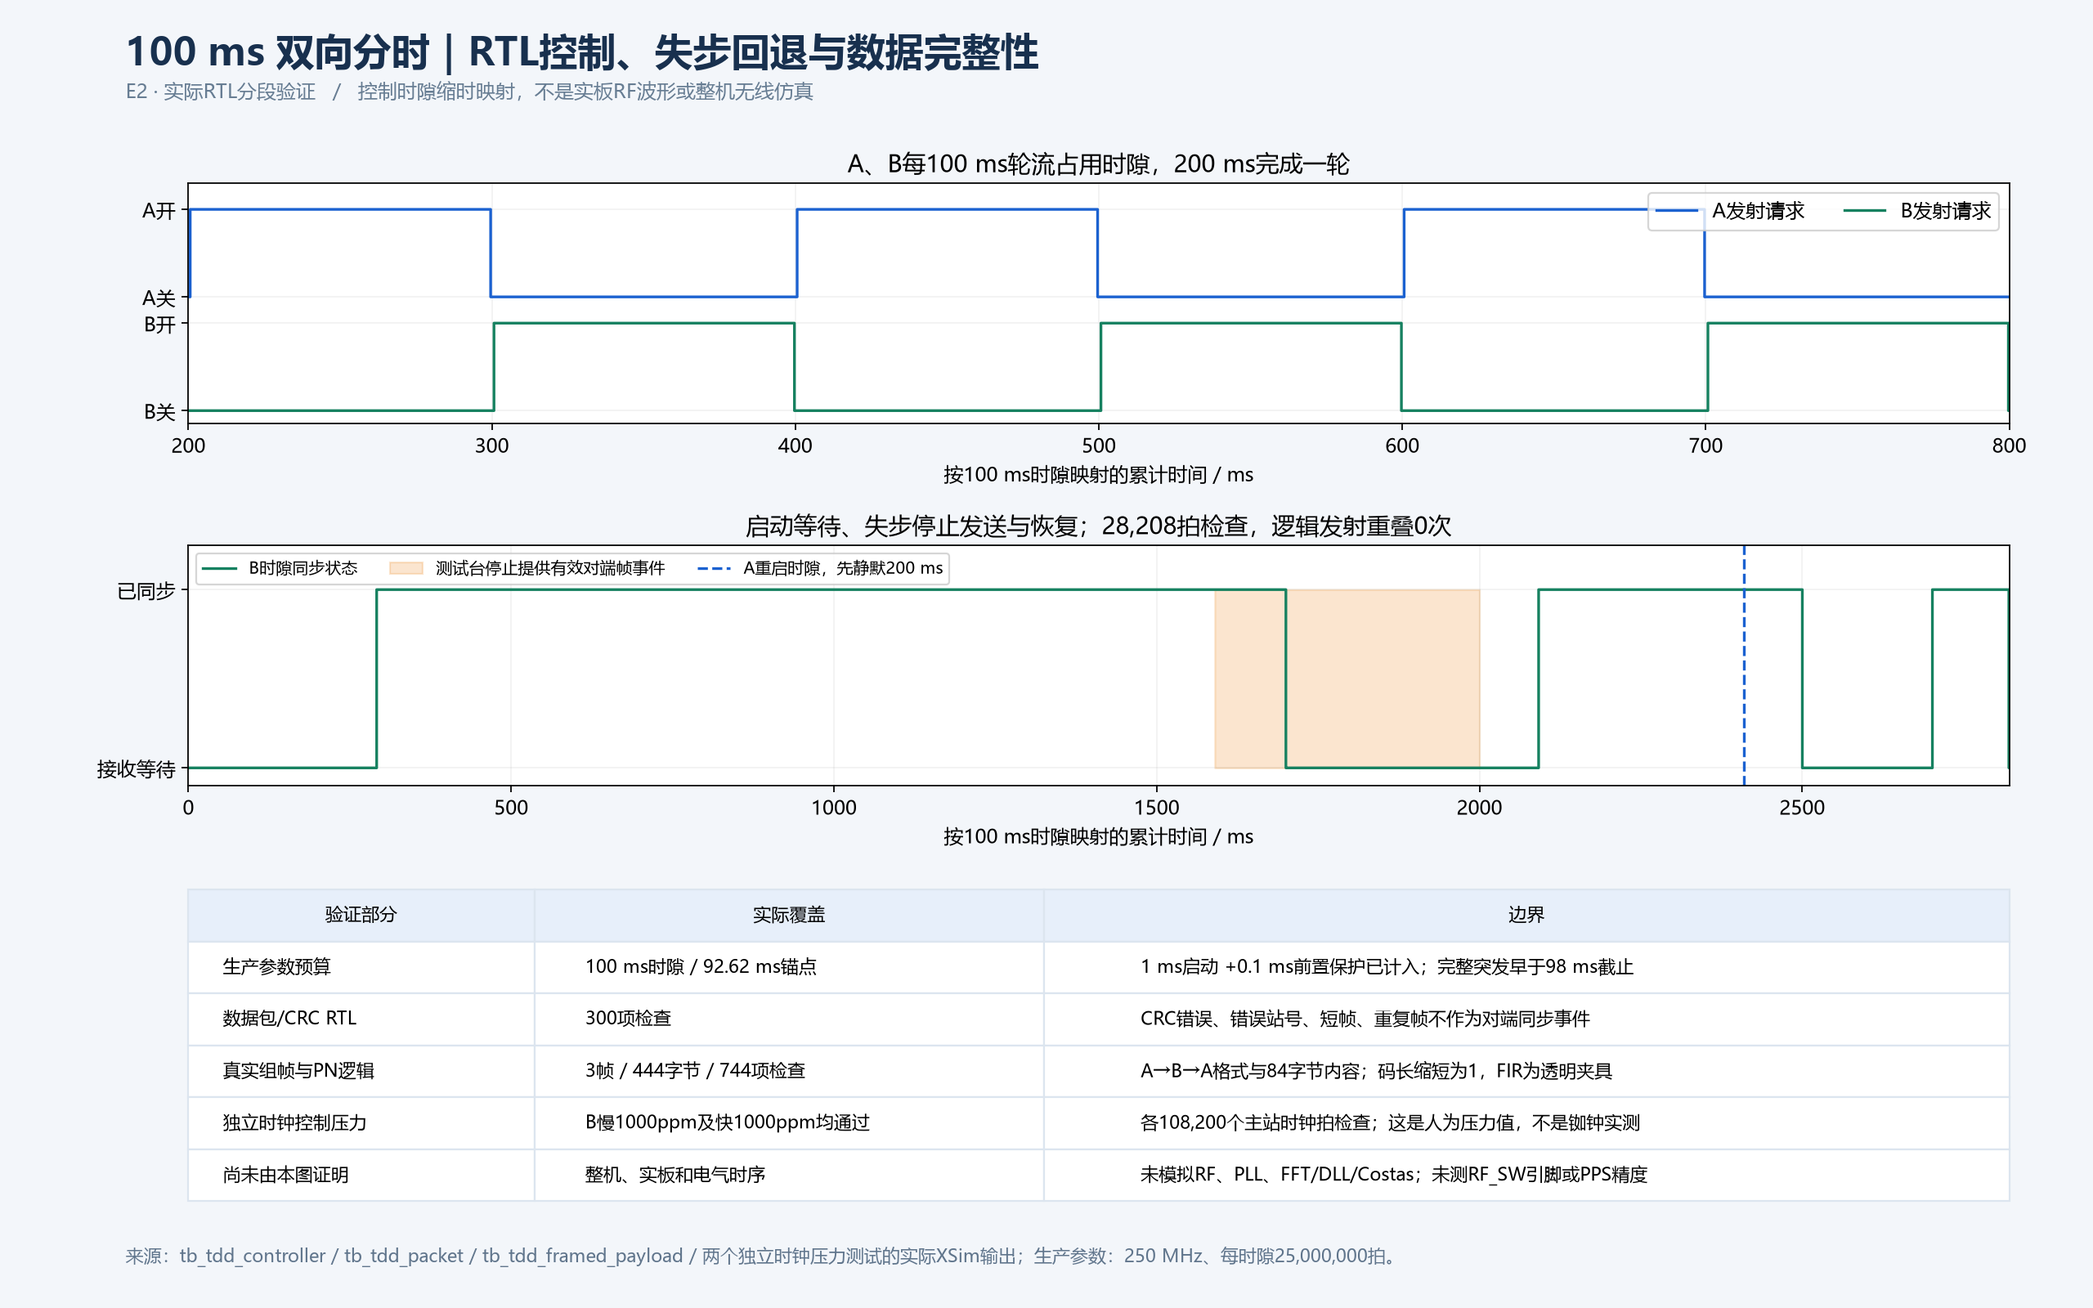
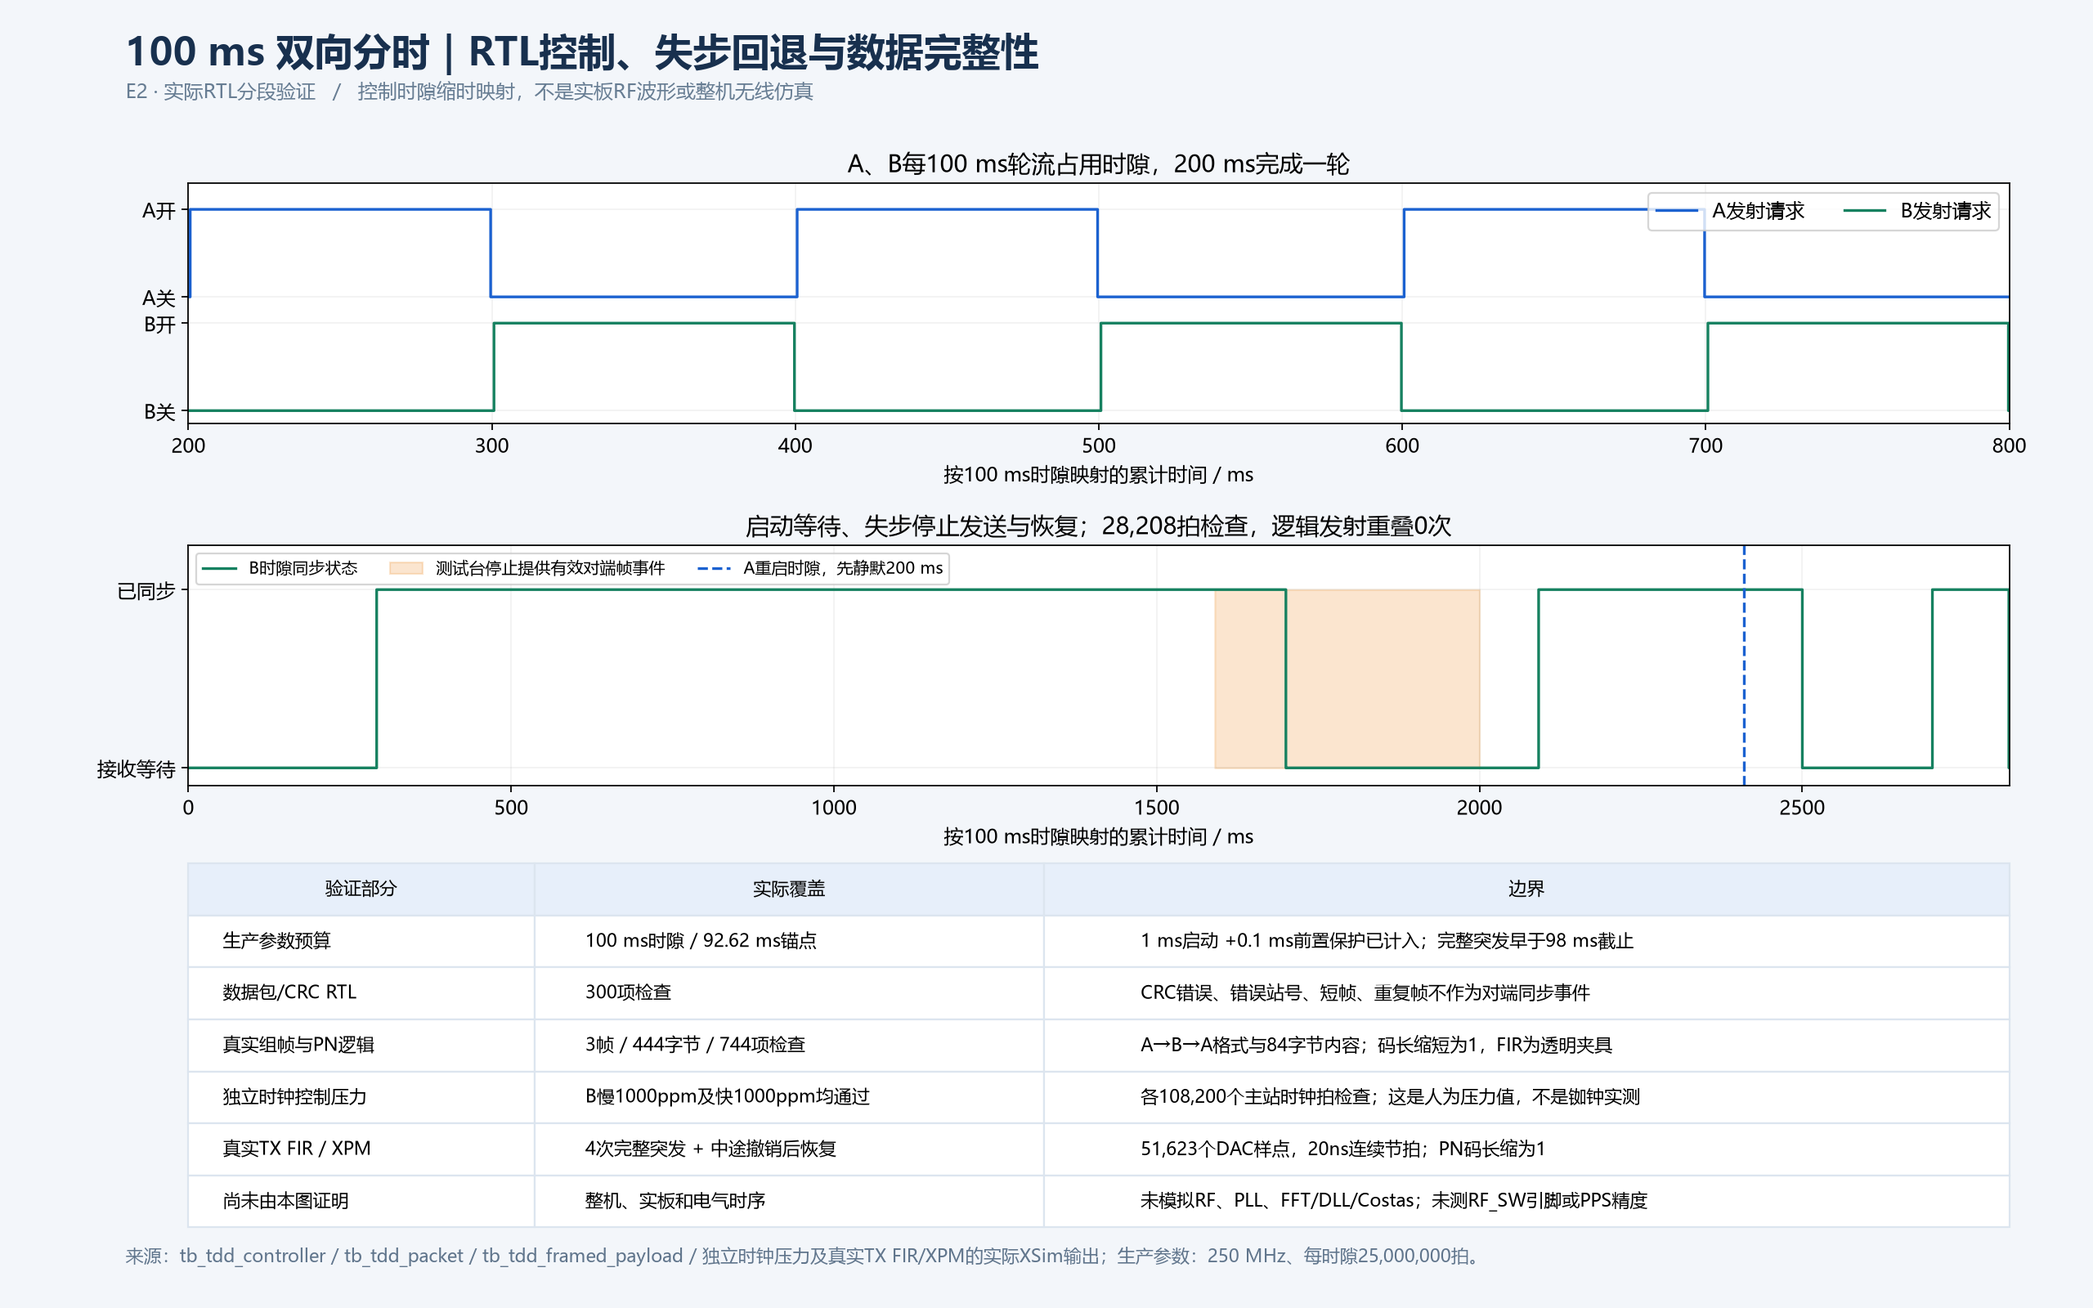
Update DSSS simulation gallery 2026-10-18

Changed region(s): [[0.2812, 0.6562, 0.8125, 0.9688], [0.0938, 0.6562, 0.1875, 0.9375]]

diff --git a/catalog.html b/catalog.html
@@ -810,10 +810,10 @@ img{width:100%;height:240px;object-fit:contain;background:#f8fafc}h3{font-size:1
 <li><a href="modules.html#ad_costas">05 载波同步：归一化与Costas环</a>：登记的新图对应模块；场景及信号说明见图注</li>
 </ul><details class="panel-note"><summary>这张图从哪里取数 / 如何阅读</summary><p>已按登记信息关联模块；具体场景及信号说明：真实FMQL45/AD9361双板同轴，用户确认两台独立铷钟10MHz，LO1.055GHz、50MSPS、模拟20MHz、用户FIR旁路、PN1000/12.5Mchip/s/12.5kbit/s，TX内部衰减50dB固定。RX数值保护前先保留旧计数，再更新接收板，重新LVDS/PRBS校准。rx_norm截位前I/Q共同缩放，Fix16_14输出范围-16384..16383，连续模式使能，默认突发模式不改，增加2个DSP拍8ns算法流水线。MIN_SHIFT=2相对原&gt;&gt;1名义预留6dB，C1/C2不变但等效鉴相增益会改变；不能将本次0/±1/±10Hz分段及当前同轴实测推广到所有频差/信噪比，需扩展跟踪覆盖。四组真实RTL/IP离线回归与正裕量布线通过。手动RX20→24→26→28→20各20s，随后20dB300s；不重捕获不清零，阶段累计实际DSP时间406.491000s，完整验收新增4690正确帧/3752000比较比特，坏帧/错误位/重捕获/ADC削顶/接口帧错增量均0，各阶段吞吐≥8帧/s。实际ILA每阶段完整载荷从Costas符号重建与输出一致，保护值范围核对。旧20→24dB约5s观察3坏帧64错误位，旧新时长/布局/校准不同，不作严格单变量整机BER对照；同输入原IP回放才隔离数值机制。首轮验收因观测工具ILA等待0.2s不足而中断（非载荷错误），保留hardware_acceptance原记录；仅重连主机桥并将采集等待改1s，FPGA未复位、错误计数未清零，完整验收为hardware_acceptance_02。无CRC/空口序号，不证明丢帧率或历史自然坏帧唯一根因；无无线/TDD/PPS/80ns或ps精度验收。工具bringup_numeric_guard_candidate.py/accept_numeric_guard_candidate.py/plot_numeric_guard_hardware.py；完整RTL/IP/位流/CSV/源哈希留本地。</p>
 </details></article>
-<article data-era="current" data-modules="script_continuous_tx script_continuous_rx"><span class="badge">E2 RTL分段：控制28208拍、数据包300项、真实组帧3帧/744项及正负1000ppm控制压力通过；实板TDD待验收</span><h3>61_100ms双向分时_RTL控制_CRC与失步回退.png</h3><a href="08_MATLAB_Simulink_RTL%E5%AF%B9%E7%85%A7/61_100ms%E5%8F%8C%E5%90%91%E5%88%86%E6%97%B6_RTL%E6%8E%A7%E5%88%B6_CRC%E4%B8%8E%E5%A4%B1%E6%AD%A5%E5%9B%9E%E9%80%80.png" target="_blank"><img loading="lazy" src="08_MATLAB_Simulink_RTL%E5%AF%B9%E7%85%A7/61_100ms%E5%8F%8C%E5%90%91%E5%88%86%E6%97%B6_RTL%E6%8E%A7%E5%88%B6_CRC%E4%B8%8E%E5%A4%B1%E6%AD%A5%E5%9B%9E%E9%80%80.png" alt="61_100ms双向分时_RTL控制_CRC与失步回退.png"></a><p>同一双向顶层候选，A只提供时隙基准，B经CRC有效对端帧建立通信历元并每帧重同步；每方向100ms、200ms一轮。图中RF曲线是实际RTL控制输出、1000拍缩映射为100ms，并非真实RF或物理RF_SW引脚测量。测试台以有效peer_packet事件激励控制器，检查启动200ms静默、互斥、漏收回退、恢复、主站重启及数据链故障关发射；28208拍逻辑发射重叠0。CRC与站号/序号/短帧验证300项，真实dsss_tx_250组帧/PN逻辑3帧444字节及用户内容744项通过，CHIPS_PER_BIT缩为1，FIR透明夹具；未覆盖真实FIR、RF、PLL、FFT/DLL/Costas。两独立测试钟B分别快/慢1000ppm、各108200主站时钟拍通过，仅为控制压力，不是铷钟频差实测。另检查实际生产默认250MHz/25M拍时隙；接收锚点92620us包括1ms发送请求偏移+0.1ms源端RF前置保护+91520us至载荷末尾。初版漏算1.1ms已在任何下载前撤回，记录保留anchor_v1_review并重新综合。100字节空口载荷中14字节管理+84用户字节+CRC16两字节，原148字节物理帧及滤波系数保持。候选整机尚在综合/布局布线与实板验收阶段，不宣称已经双向通信、无线、PS联网或PPS测时通过。源码/IP/位流及原始记录仅本地。</p><p><strong>对应模块 / 图源：</strong></p><ul class="module-links">
+<article data-era="current" data-modules="script_continuous_tx script_continuous_rx"><span class="badge">E2 RTL分段：控制28208拍、数据包300项、真实组帧3帧/744项及正负1000ppm控制压力通过；真实TX FIR/XPM突发4帧及撤销恢复通过；实板TDD待验收</span><h3>61_100ms双向分时_RTL控制_CRC与失步回退.png</h3><a href="08_MATLAB_Simulink_RTL%E5%AF%B9%E7%85%A7/61_100ms%E5%8F%8C%E5%90%91%E5%88%86%E6%97%B6_RTL%E6%8E%A7%E5%88%B6_CRC%E4%B8%8E%E5%A4%B1%E6%AD%A5%E5%9B%9E%E9%80%80.png" target="_blank"><img loading="lazy" src="08_MATLAB_Simulink_RTL%E5%AF%B9%E7%85%A7/61_100ms%E5%8F%8C%E5%90%91%E5%88%86%E6%97%B6_RTL%E6%8E%A7%E5%88%B6_CRC%E4%B8%8E%E5%A4%B1%E6%AD%A5%E5%9B%9E%E9%80%80.png" alt="61_100ms双向分时_RTL控制_CRC与失步回退.png"></a><p>同一双向顶层候选，A只提供时隙基准，B经CRC有效对端帧建立通信历元并每帧重同步；每方向100ms、200ms一轮。图中RF曲线是实际RTL控制输出、1000拍缩映射为100ms，并非真实RF或物理RF_SW引脚测量。测试台以有效peer_packet事件激励控制器，检查启动200ms静默、互斥、漏收回退、恢复、主站重启及数据链故障关发射；28208拍逻辑发射重叠0。CRC与站号/序号/短帧验证300项，真实dsss_tx_250组帧/PN逻辑3帧444字节及用户内容744项通过，CHIPS_PER_BIT缩为1，FIR透明夹具；未覆盖真实FIR、RF、PLL、FFT/DLL/Costas。两独立测试钟B分别快/慢1000ppm、各108200主站时钟拍通过，仅为控制压力，不是铷钟频差实测。另检查实际生产默认250MHz/25M拍时隙；接收锚点92620us包括1ms发送请求偏移+0.1ms源端RF前置保护+91520us至载荷末尾。初版漏算1.1ms已在任何下载前撤回，记录保留anchor_v1_review并重新综合。100字节空口载荷中14字节管理+84用户字节+CRC16两字节，原148字节物理帧及滤波系数保持。候选整机尚在综合/布局布线与实板验收阶段，不宣称已经双向通信、无线、PS联网或PPS测时通过。源码/IP/位流及原始记录仅本地。 补充实际生产tx_intp20_fir与XPM异步FIFO段：CPB缩为1，保持250MHz/100MHz/50MSPS与真实FIR，4次完整突发及1次中途撤销后恢复通过；检查51,623个DAC样点、20ns连续输出、FIFO值顺序、Q零、无削顶。该段覆盖真实TX FIR，但不包含无线或真实RX捕获/环路；原透明FIR组帧段的边界不变。工具run_tdd_tx_actual_ip.py；实际XSim日志保留。</p><p><strong>对应模块 / 图源：</strong></p><ul class="module-links">
 <li><a href="modules.html#script_continuous_tx">实板连续发射机：FPGA帧源到AD9361射频</a>：登记的新图对应模块；场景及信号说明见图注</li>
 <li><a href="modules.html#script_continuous_rx">实板连续接收机：双板同轴载荷验证</a>：登记的新图对应模块；场景及信号说明见图注</li>
-</ul><details class="panel-note"><summary>这张图从哪里取数 / 如何阅读</summary><p>已按登记信息关联模块；具体场景及信号说明：同一双向顶层候选，A只提供时隙基准，B经CRC有效对端帧建立通信历元并每帧重同步；每方向100ms、200ms一轮。图中RF曲线是实际RTL控制输出、1000拍缩映射为100ms，并非真实RF或物理RF_SW引脚测量。测试台以有效peer_packet事件激励控制器，检查启动200ms静默、互斥、漏收回退、恢复、主站重启及数据链故障关发射；28208拍逻辑发射重叠0。CRC与站号/序号/短帧验证300项，真实dsss_tx_250组帧/PN逻辑3帧444字节及用户内容744项通过，CHIPS_PER_BIT缩为1，FIR透明夹具；未覆盖真实FIR、RF、PLL、FFT/DLL/Costas。两独立测试钟B分别快/慢1000ppm、各108200主站时钟拍通过，仅为控制压力，不是铷钟频差实测。另检查实际生产默认250MHz/25M拍时隙；接收锚点92620us包括1ms发送请求偏移+0.1ms源端RF前置保护+91520us至载荷末尾。初版漏算1.1ms已在任何下载前撤回，记录保留anchor_v1_review并重新综合。100字节空口载荷中14字节管理+84用户字节+CRC16两字节，原148字节物理帧及滤波系数保持。候选整机尚在综合/布局布线与实板验收阶段，不宣称已经双向通信、无线、PS联网或PPS测时通过。源码/IP/位流及原始记录仅本地。</p>
+</ul><details class="panel-note"><summary>这张图从哪里取数 / 如何阅读</summary><p>已按登记信息关联模块；具体场景及信号说明：同一双向顶层候选，A只提供时隙基准，B经CRC有效对端帧建立通信历元并每帧重同步；每方向100ms、200ms一轮。图中RF曲线是实际RTL控制输出、1000拍缩映射为100ms，并非真实RF或物理RF_SW引脚测量。测试台以有效peer_packet事件激励控制器，检查启动200ms静默、互斥、漏收回退、恢复、主站重启及数据链故障关发射；28208拍逻辑发射重叠0。CRC与站号/序号/短帧验证300项，真实dsss_tx_250组帧/PN逻辑3帧444字节及用户内容744项通过，CHIPS_PER_BIT缩为1，FIR透明夹具；未覆盖真实FIR、RF、PLL、FFT/DLL/Costas。两独立测试钟B分别快/慢1000ppm、各108200主站时钟拍通过，仅为控制压力，不是铷钟频差实测。另检查实际生产默认250MHz/25M拍时隙；接收锚点92620us包括1ms发送请求偏移+0.1ms源端RF前置保护+91520us至载荷末尾。初版漏算1.1ms已在任何下载前撤回，记录保留anchor_v1_review并重新综合。100字节空口载荷中14字节管理+84用户字节+CRC16两字节，原148字节物理帧及滤波系数保持。候选整机尚在综合/布局布线与实板验收阶段，不宣称已经双向通信、无线、PS联网或PPS测时通过。源码/IP/位流及原始记录仅本地。 补充实际生产tx_intp20_fir与XPM异步FIFO段：CPB缩为1，保持250MHz/100MHz/50MSPS与真实FIR，4次完整突发及1次中途撤销后恢复通过；检查51,623个DAC样点、20ns连续输出、FIFO值顺序、Q零、无削顶。该段覆盖真实TX FIR，但不包含无线或真实RX捕获/环路；原透明FIR组帧段的边界不变。工具run_tdd_tx_actual_ip.py；实际XSim日志保留。</p>
 </details></article>
 </div></section>
 <section data-category="9" id="c9"><h2>09_无线性能与鲁棒性</h2><p class="note">当前MATLAB可视化参数探索：自定义FIR、Costas、码率与信道；与历史旧方案场景分开。功能探索不等于真实RTL或70km无线性能验收。</p><div class="grid">

diff --git a/modules.html b/modules.html
@@ -1379,6 +1379,6 @@ hilite_system(&#x27;dsss_ad9361_official/Scope_TX_IQ&#x27;,&#x27;find&#x27;);</p
 </details>
 <details><summary>60_AD9361双板实测_数值保护_增益突变与持续接收.png</summary><p>已按登记信息关联模块；具体场景及信号说明：真实FMQL45/AD9361双板同轴，用户确认两台独立铷钟10MHz，LO1.055GHz、50MSPS、模拟20MHz、用户FIR旁路、PN1000/12.5Mchip/s/12.5kbit/s，TX内部衰减50dB固定。RX数值保护前先保留旧计数，再更新接收板，重新LVDS/PRBS校准。rx_norm截位前I/Q共同缩放，Fix16_14输出范围-16384..16383，连续模式使能，默认突发模式不改，增加2个DSP拍8ns算法流水线。MIN_SHIFT=2相对原&gt;&gt;1名义预留6dB，C1/C2不变但等效鉴相增益会改变；不能将本次0/±1/±10Hz分段及当前同轴实测推广到所有频差/信噪比，需扩展跟踪覆盖。四组真实RTL/IP离线回归与正裕量布线通过。手动RX20→24→26→28→20各20s，随后20dB300s；不重捕获不清零，阶段累计实际DSP时间406.491000s，完整验收新增4690正确帧/3752000比较比特，坏帧/错误位/重捕获/ADC削顶/接口帧错增量均0，各阶段吞吐≥8帧/s。实际ILA每阶段完整载荷从Costas符号重建与输出一致，保护值范围核对。旧20→24dB约5s观察3坏帧64错误位，旧新时长/布局/校准不同，不作严格单变量整机BER对照；同输入原IP回放才隔离数值机制。首轮验收因观测工具ILA等待0.2s不足而中断（非载荷错误），保留hardware_acceptance原记录；仅重连主机桥并将采集等待改1s，FPGA未复位、错误计数未清零，完整验收为hardware_acceptance_02。无CRC/空口序号，不证明丢帧率或历史自然坏帧唯一根因；无无线/TDD/PPS/80ns或ps精度验收。工具bringup_numeric_guard_candidate.py/accept_numeric_guard_candidate.py/plot_numeric_guard_hardware.py；完整RTL/IP/位流/CSV/源哈希留本地。</p>
 </details>
-<details><summary>61_100ms双向分时_RTL控制_CRC与失步回退.png</summary><p>已按登记信息关联模块；具体场景及信号说明：同一双向顶层候选，A只提供时隙基准，B经CRC有效对端帧建立通信历元并每帧重同步；每方向100ms、200ms一轮。图中RF曲线是实际RTL控制输出、1000拍缩映射为100ms，并非真实RF或物理RF_SW引脚测量。测试台以有效peer_packet事件激励控制器，检查启动200ms静默、互斥、漏收回退、恢复、主站重启及数据链故障关发射；28208拍逻辑发射重叠0。CRC与站号/序号/短帧验证300项，真实dsss_tx_250组帧/PN逻辑3帧444字节及用户内容744项通过，CHIPS_PER_BIT缩为1，FIR透明夹具；未覆盖真实FIR、RF、PLL、FFT/DLL/Costas。两独立测试钟B分别快/慢1000ppm、各108200主站时钟拍通过，仅为控制压力，不是铷钟频差实测。另检查实际生产默认250MHz/25M拍时隙；接收锚点92620us包括1ms发送请求偏移+0.1ms源端RF前置保护+91520us至载荷末尾。初版漏算1.1ms已在任何下载前撤回，记录保留anchor_v1_review并重新综合。100字节空口载荷中14字节管理+84用户字节+CRC16两字节，原148字节物理帧及滤波系数保持。候选整机尚在综合/布局布线与实板验收阶段，不宣称已经双向通信、无线、PS联网或PPS测时通过。源码/IP/位流及原始记录仅本地。</p>
+<details><summary>61_100ms双向分时_RTL控制_CRC与失步回退.png</summary><p>已按登记信息关联模块；具体场景及信号说明：同一双向顶层候选，A只提供时隙基准，B经CRC有效对端帧建立通信历元并每帧重同步；每方向100ms、200ms一轮。图中RF曲线是实际RTL控制输出、1000拍缩映射为100ms，并非真实RF或物理RF_SW引脚测量。测试台以有效peer_packet事件激励控制器，检查启动200ms静默、互斥、漏收回退、恢复、主站重启及数据链故障关发射；28208拍逻辑发射重叠0。CRC与站号/序号/短帧验证300项，真实dsss_tx_250组帧/PN逻辑3帧444字节及用户内容744项通过，CHIPS_PER_BIT缩为1，FIR透明夹具；未覆盖真实FIR、RF、PLL、FFT/DLL/Costas。两独立测试钟B分别快/慢1000ppm、各108200主站时钟拍通过，仅为控制压力，不是铷钟频差实测。另检查实际生产默认250MHz/25M拍时隙；接收锚点92620us包括1ms发送请求偏移+0.1ms源端RF前置保护+91520us至载荷末尾。初版漏算1.1ms已在任何下载前撤回，记录保留anchor_v1_review并重新综合。100字节空口载荷中14字节管理+84用户字节+CRC16两字节，原148字节物理帧及滤波系数保持。候选整机尚在综合/布局布线与实板验收阶段，不宣称已经双向通信、无线、PS联网或PPS测时通过。源码/IP/位流及原始记录仅本地。 补充实际生产tx_intp20_fir与XPM异步FIFO段：CPB缩为1，保持250MHz/100MHz/50MSPS与真实FIR，4次完整突发及1次中途撤销后恢复通过；检查51,623个DAC样点、20ns连续输出、FIFO值顺序、Q零、无削顶。该段覆盖真实TX FIR，但不包含无线或真实RX捕获/环路；原透明FIR组帧段的边界不变。工具run_tdd_tx_actual_ip.py；实际XSim日志保留。</p>
 </details>
 <script>document.querySelectorAll('[data-diagram][data-zoom]').forEach(button=>button.addEventListener('click',()=>{const image=document.getElementById('image-'+button.dataset.diagram);image.style.width=(100*Number(button.dataset.zoom))+'%';}));</script></main></html>
